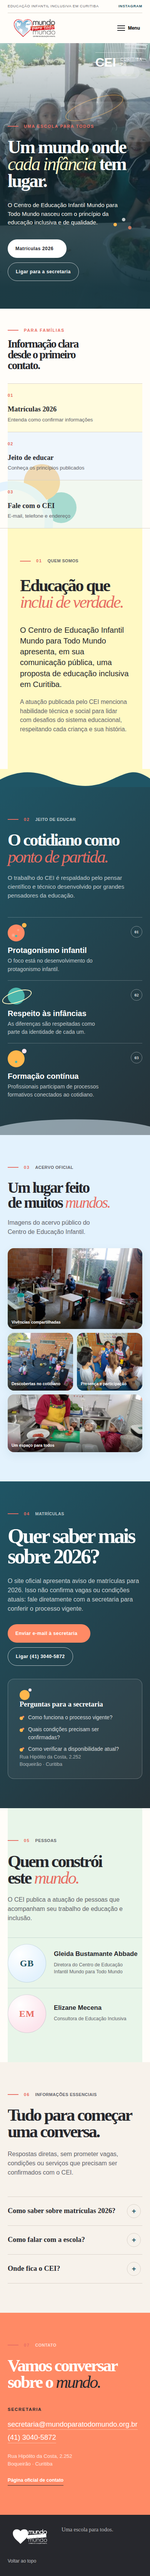
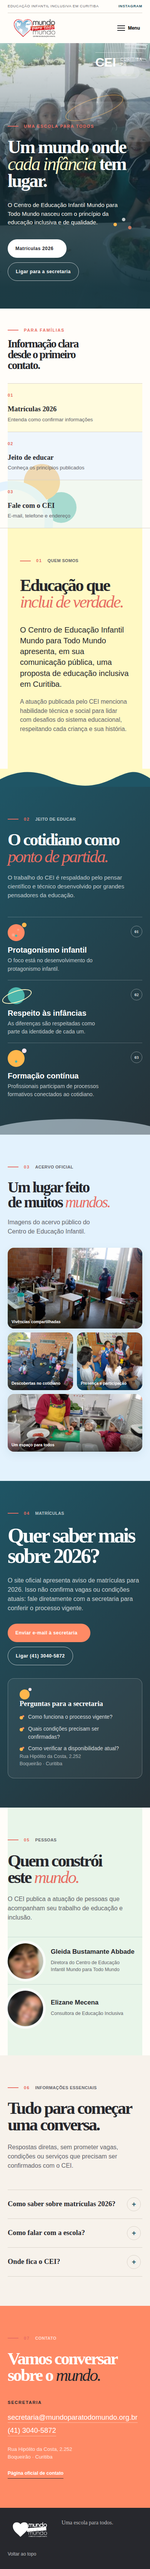
Keep the published portraits in the Pessoas section
Reverts the monogram treatment. The two portraits published by the CEI
stay on the page; only their presentation changed, since the blur is
baked into the source crops and no display change removes it.

- Portrait diameter drops from 150px to 112px (92px on mobile), so the
  layout stops magnifying the existing softness.
- Circular white frame, soft vignette and a small contrast/saturation
  lift make the softness read as an archive photo rather than a defect.
- Per-portrait framing, plus a brightness lift on the darker of the two.

Re-verified at 1440x900 and 390x844: no horizontal overflow, no broken
images, no console/page/request errors, mobile menu keyboard states
intact. Evidence, review artifacts and checksums regenerated.

Claude-Session: https://claude.ai/code/session_01B1WXpN5piKZKBH66gH9EtV

diff --git a/sources/prospect-batch/2026-07-17/mundo-para-todo-mundo/index.html b/sources/prospect-batch/2026-07-17/mundo-para-todo-mundo/index.html
@@ -79,7 +79,7 @@
 
     <section class="matriculas section-band" id="matriculas" aria-labelledby="matriculas-title"><div class="wrap admission-grid"><div><div class="section-kicker light">04 <span>Matrículas</span></div><h2 id="matriculas-title">Quer saber mais<br>sobre 2026?</h2><p>O site oficial apresenta aviso de matrículas para 2026. Isso não confirma vagas ou condições atuais: fale diretamente com a secretaria para conferir o processo vigente.</p><div class="admission-actions"><a class="button button-accent" href="mailto:secretaria@mundoparatodomundo.org.br?subject=Informa%C3%A7%C3%B5es%20sobre%20matr%C3%ADculas%202026">Enviar e-mail à secretaria <span class="ph-icon ph-arrow-up-right" aria-hidden="true"></span></a><a class="button button-outline-light" href="tel:+554130405872">Ligar (41) 3040-5872</a></div></div><div class="admission-note"><span class="note-mark" aria-hidden="true"></span><div><p class="admission-note-title">Perguntas para a secretaria</p><ul class="inquiry-list"><li>Como funciona o processo vigente?</li><li>Quais condições precisam ser confirmadas?</li><li>Como verificar a disponibilidade atual?</li></ul></div><small>Rua Hipólito da Costa, 2.252<br>Boqueirão · Curitiba</small></div></div></section>
 
-    <section class="people wrap section" aria-labelledby="people-title"><div class="section-kicker">05 <span>Pessoas</span></div><div class="people-heading"><h2 id="people-title">Quem constrói<br>este <em>mundo.</em></h2><p>O CEI publica a atuação de pessoas que acompanham seu trabalho de educação e inclusão.</p></div><div class="people-grid"><article class="person"><span class="person-mark" aria-hidden="true">GB</span><div><h3>Gleida Bustamante Abbade</h3><p>Diretora do Centro de Educação Infantil Mundo para Todo Mundo</p></div></article><article class="person"><span class="person-mark" aria-hidden="true">EM</span><div><h3>Elizane Mecena</h3><p>Consultora de Educação Inclusiva</p></div></article></div></section>
+    <section class="people wrap section" aria-labelledby="people-title"><div class="section-kicker">05 <span>Pessoas</span></div><div class="people-heading"><h2 id="people-title">Quem constrói<br>este <em>mundo.</em></h2><p>O CEI publica a atuação de pessoas que acompanham seu trabalho de educação e inclusão.</p></div><div class="people-grid"><article class="person"><span class="person-photo"><img src="assets/team-gleida.jpg" alt="Gleida Bustamante Abbade" width="319" height="302"></span><div><h3>Gleida Bustamante Abbade</h3><p>Diretora do Centro de Educação Infantil Mundo para Todo Mundo</p></div></article><article class="person"><span class="person-photo"><img src="assets/team-elizane.jpg" alt="Elizane Mecena" width="234" height="253"></span><div><h3>Elizane Mecena</h3><p>Consultora de Educação Inclusiva</p></div></article></div></section>
 
     <section class="faq section" id="informacoes" aria-labelledby="faq-title"><div class="wrap faq-grid"><div><div class="section-kicker">06 <span>Informações essenciais</span></div><h2 id="faq-title">Tudo para começar uma conversa.</h2><p>Respostas diretas, sem prometer vagas, condições ou serviços que precisam ser confirmados com o CEI.</p></div><div class="faq-list"><details><summary>Como saber sobre matrículas 2026?</summary><p>O site oficial apresenta um aviso de matrículas para 2026. Confirme processo, condições e disponibilidade diretamente com a secretaria.</p></details><details><summary>Como falar com a escola?</summary><p>Use o e-mail secretaria@mundoparatodomundo.org.br ou ligue para (41) 3040-5872.</p></details><details><summary>Onde fica o CEI?</summary><p>Rua Hipólito da Costa, 2.252, no bairro Boqueirão, em Curitiba.</p></details></div></div></section>
 

diff --git a/sources/prospect-batch/2026-07-17/mundo-para-todo-mundo/styles.css b/sources/prospect-batch/2026-07-17/mundo-para-todo-mundo/styles.css
@@ -236,20 +236,20 @@ figcaption { position: absolute; bottom: 0; left: 0; right: 0; padding: 30px 18p
 .people-heading { display: flex; justify-content: space-between; align-items: end; gap: 40px; }
 .people-heading p { max-width: 300px; color: var(--muted); margin: 0; }
 .people-grid { display: grid; grid-template-columns: 1fr 1fr; gap: 14px; margin-top: 56px; }
-.person { display: grid; grid-template-columns: 150px 1fr; gap: 20px; align-items: center; border-top: 1px solid rgba(31,85,101,.18); padding-top: 16px; }
-.person-mark {
-  width: 150px;
-  height: 150px;
+.person { display: grid; grid-template-columns: 112px 1fr; gap: 20px; align-items: center; border-top: 1px solid rgba(31,85,101,.18); padding-top: 16px; }
+.person-photo {
+  position: relative;
+  display: block;
+  width: 112px;
+  height: 112px;
   border-radius: 50%;
-  display: grid;
-  place-items: center;
-  font: 700 2.1rem/1 Georgia, "Times New Roman", serif;
-  letter-spacing: .04em;
-  color: var(--blue-deep);
-  background: radial-gradient(circle at 32% 27%, #fff, var(--pastel-blue) 72%);
-  box-shadow: inset 0 0 0 1px rgba(31,85,101,.18);
+  overflow: hidden;
+  background: var(--cream);
+  box-shadow: 0 0 0 1px rgba(31,85,101,.16), 0 0 0 7px rgba(255,255,255,.72);
 }
-.person:nth-child(2) .person-mark { color: var(--coral); background: radial-gradient(circle at 32% 27%, #fff, var(--pastel-pink) 72%); }
+.person-photo img { width: 100%; height: 100%; display: block; object-fit: cover; object-position: 50% 32%; filter: saturate(1.06) contrast(1.06); }
+.person:nth-child(2) .person-photo img { object-position: 52% 42%; filter: saturate(1.06) contrast(1.04) brightness(1.14); }
+.person-photo:after { content: ""; position: absolute; inset: 0; border-radius: 50%; background: radial-gradient(circle at 50% 42%, transparent 52%, rgba(31,85,101,.14)); }
 .person h3 { margin: 0 0 9px; font-size: 1.05rem; }
 .person p { color: var(--muted); font-size: .78rem; margin: 0; max-width: 190px; }
 
@@ -350,8 +350,8 @@ figcaption { position: absolute; bottom: 0; left: 0; right: 0; padding: 30px 18p
   .admission-note { min-height: 180px; }
   .admission-actions { align-items: flex-start; flex-direction: column; }
   .people-grid { grid-template-columns: 1fr; margin-top: 38px; }
-  .person { grid-template-columns: 100px 1fr; }
-  .person-mark { width: 100px; height: 100px; font-size: 1.5rem; }
+  .person { grid-template-columns: 92px 1fr; }
+  .person-photo { width: 92px; height: 92px; }
   .contact-grid { gap: 40px; }
   .contact { padding-block: 76px; }
   .footer-row { align-items: flex-start; flex-wrap: wrap; }

diff --git a/sources/prospect-batch/2026-07-17/mundo-para-todo-mundo/BUILD_REPORT.md b/sources/prospect-batch/2026-07-17/mundo-para-todo-mundo/BUILD_REPORT.md
@@ -88,7 +88,7 @@ A renderização foi validada em 1440×900 e 390×844: zero overflow horizontal,
 
 Retorno da revisão de sites: retratos desfocados na seção “Pessoas” e sugestão de transformar parte dos círculos decorativos em planetas.
 
-- Retratos: as duas únicas imagens disponíveis no domínio oficial (`assets/team-gleida.jpg`, `assets/team-elizane.jpg`) são recortes de captura de tela em 234×253 e 319×302 px e já chegam desfocados na origem — nenhum ajuste de exibição recupera nitidez. A seção passou a usar monogramas circulares (`.person-mark`) em Georgia sobre gradiente pastel, preservando nomes e funções publicados. Os arquivos originais continuam arquivados e documentados no manifesto; basta trocar o monograma por `<img>` quando o CEI fornecer fotografias em resolução adequada.
+- Retratos: as fotos publicadas das duas profissionais foram mantidas. As únicas versões disponíveis no domínio oficial (`assets/team-gleida.jpg` 319×302, `assets/team-elizane.jpg` 234×253) são recortes de captura de tela já desfocados na origem, então o desfoque não desaparece; o que mudou foi a exibição. O retrato passou de 150 px para 112 px (92 px no mobile), com moldura circular branca, leve vinheta, ajuste de contraste/saturação e enquadramento por retrato — a ampliação deixa de acentuar o desfoque e a suavidade lê como foto de arquivo, não como defeito. Substituir por fotografias em resolução maior continua sendo troca direta dos dois arquivos.
 - Planetas: parte dos círculos já existentes virou planeta, sem novos elementos gratuitos. No hero, o círculo grande virou `.hero-planet` — corpo com crateras e brilho e anel âmbar inclinado. Em “Jeito de educar”, o ícone 01 ganhou crateras e o ícone 02 trocou o satélite por um anel. Os demais pontos (nuvem, satélites do hero, marcador de matrículas, bullets) seguem neutros, para que a leitura continue editorial e não vire tema espacial.
 
 Revalidação em 1440×900 e 390×844 com `verify_playwright.js`: HTTP 200, zero overflow horizontal, anchors resolvidos, ativos locais 200, zero erros de console/página/request, menu mobile abrindo por Enter e fechando por Escape, `proposal.html` com `noindex, nofollow` e nenhuma string de proposta na produção. `evidence/proposed/`, `review/` e `verification-output.json` foram regerados nesta passagem.

diff --git a/sources/prospect-batch/2026-07-17/mundo-para-todo-mundo/SOURCE_MANIFEST.md b/sources/prospect-batch/2026-07-17/mundo-para-todo-mundo/SOURCE_MANIFEST.md
@@ -45,7 +45,7 @@ Todos foram baixados diretamente do domínio oficial `https://mundoparatodomundo
 
 `news-2026.jpg`, `popup-2025.jpg` e `ods.png` foram preservados localmente para rastreabilidade da pesquisa, mas não são usados como afirmações novas na homepage.
 
-`team-gleida.jpg` e `team-elizane.jpg` são recortes de captura de tela publicados pela fonte (234×253 e 319×302 px, visivelmente desfocados na origem). Como não existe versão nítida no domínio oficial, os arquivos permanecem arquivados para rastreabilidade, mas não são exibidos: a seção “Pessoas” usa monogramas circulares tipográficos com os nomes e funções publicados. Fotografias reais podem substituir os monogramas assim que o CEI fornecer arquivos em resolução adequada.
+`team-gleida.jpg` e `team-elizane.jpg` são recortes de captura de tela publicados pela fonte (319×302 e 234×253 px, já desfocados na origem). Não existe versão nítida no domínio oficial, e as fotos continuam sendo as pessoas reais publicadas pelo CEI: seguem exibidas na seção “Pessoas”, apenas em diâmetro menor (112 px, 92 px no mobile) e com moldura circular, para que a exibição não amplie o desfoque. Se o CEI fornecer arquivos em resolução maior, basta substituir os arquivos e aumentar o diâmetro.
 
 ## Evidência visual
 
